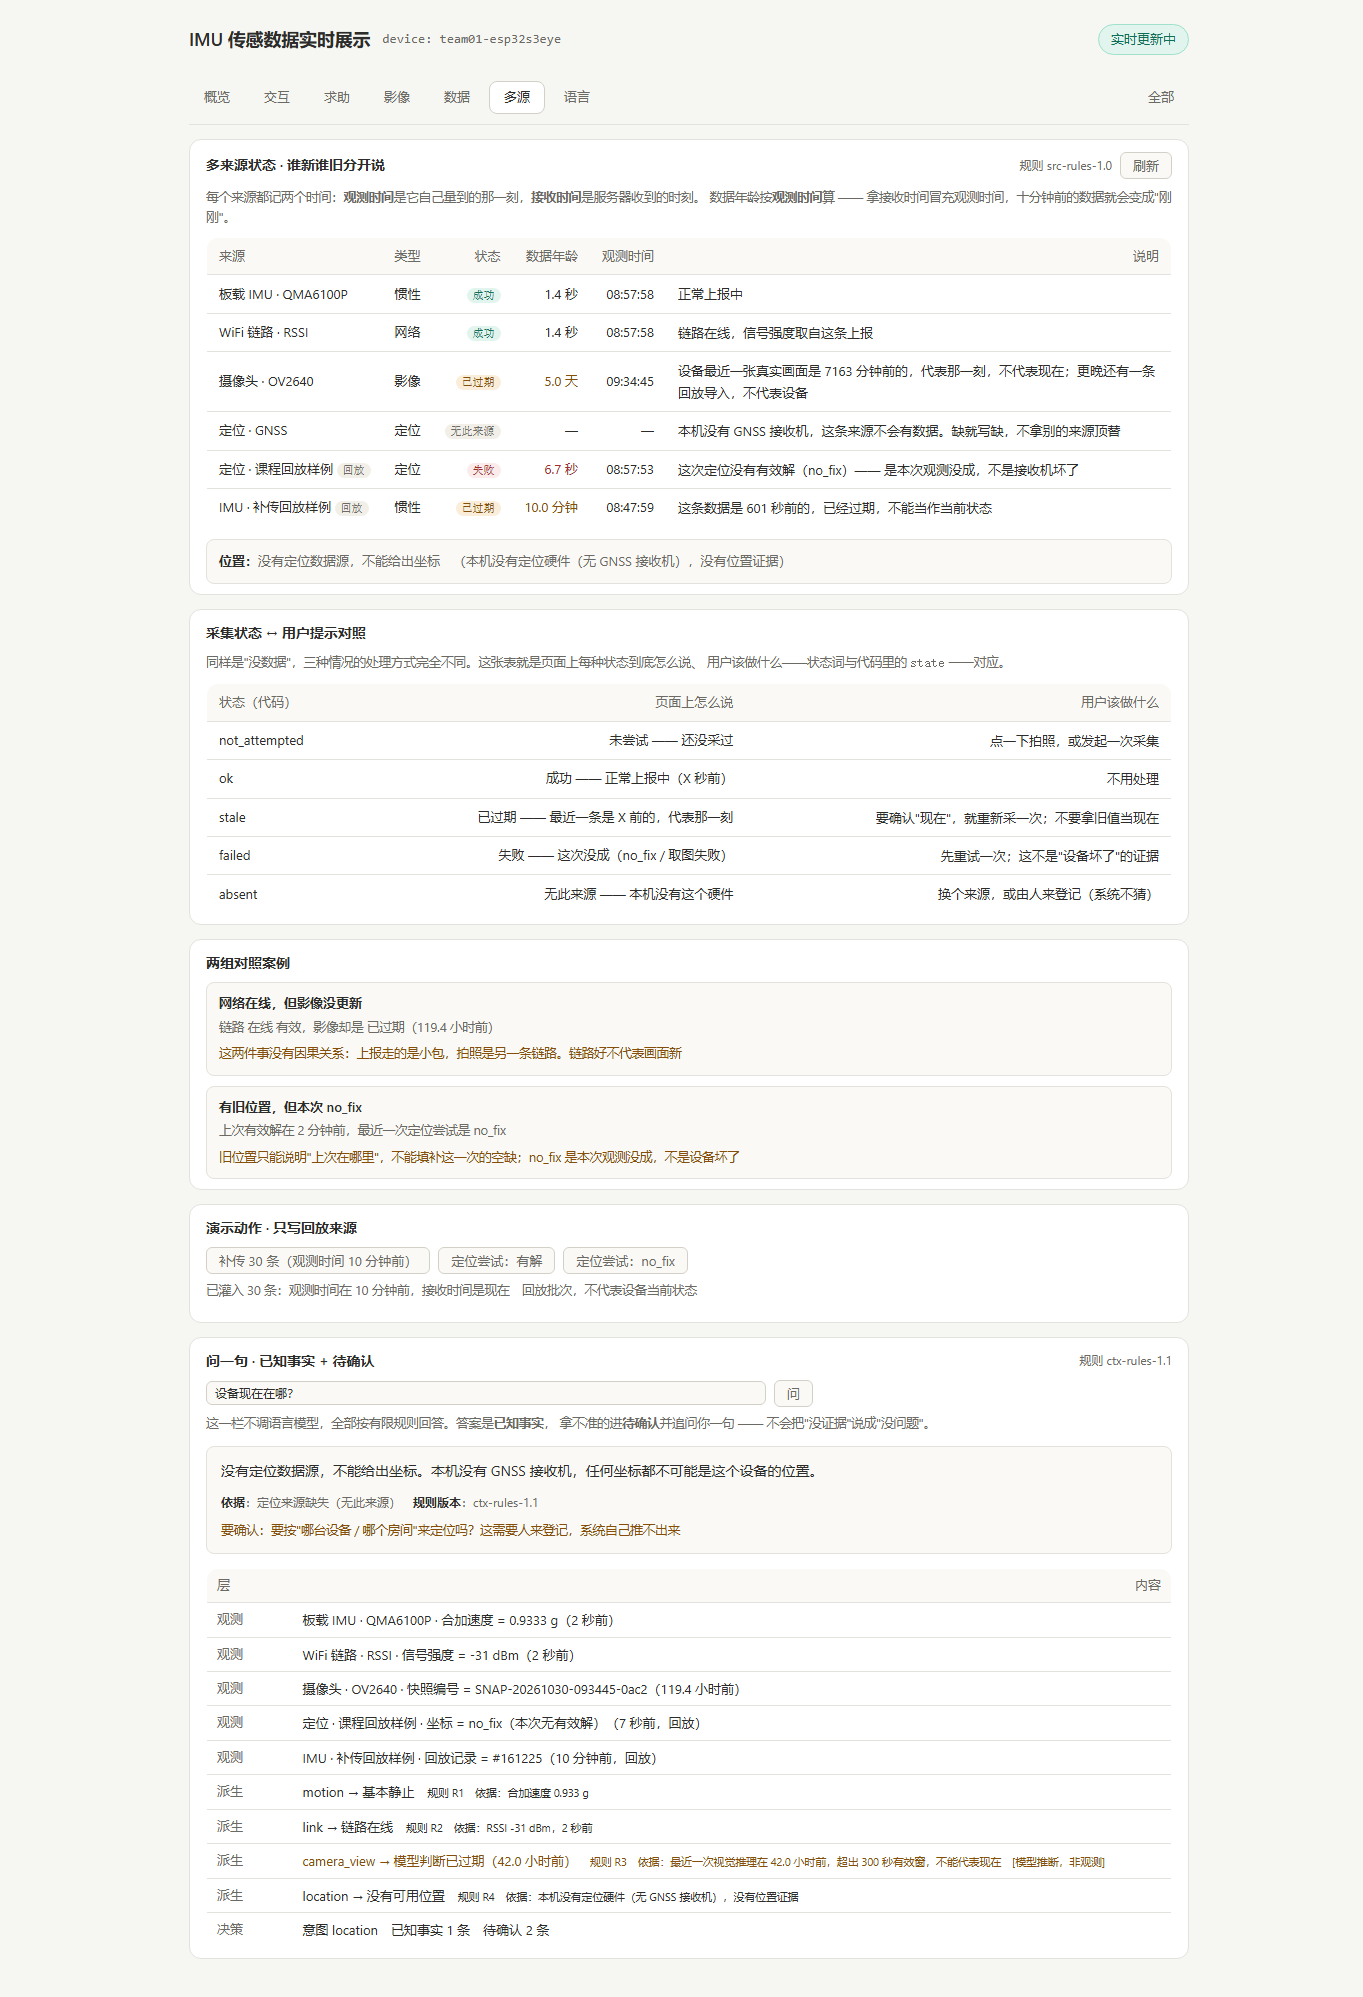
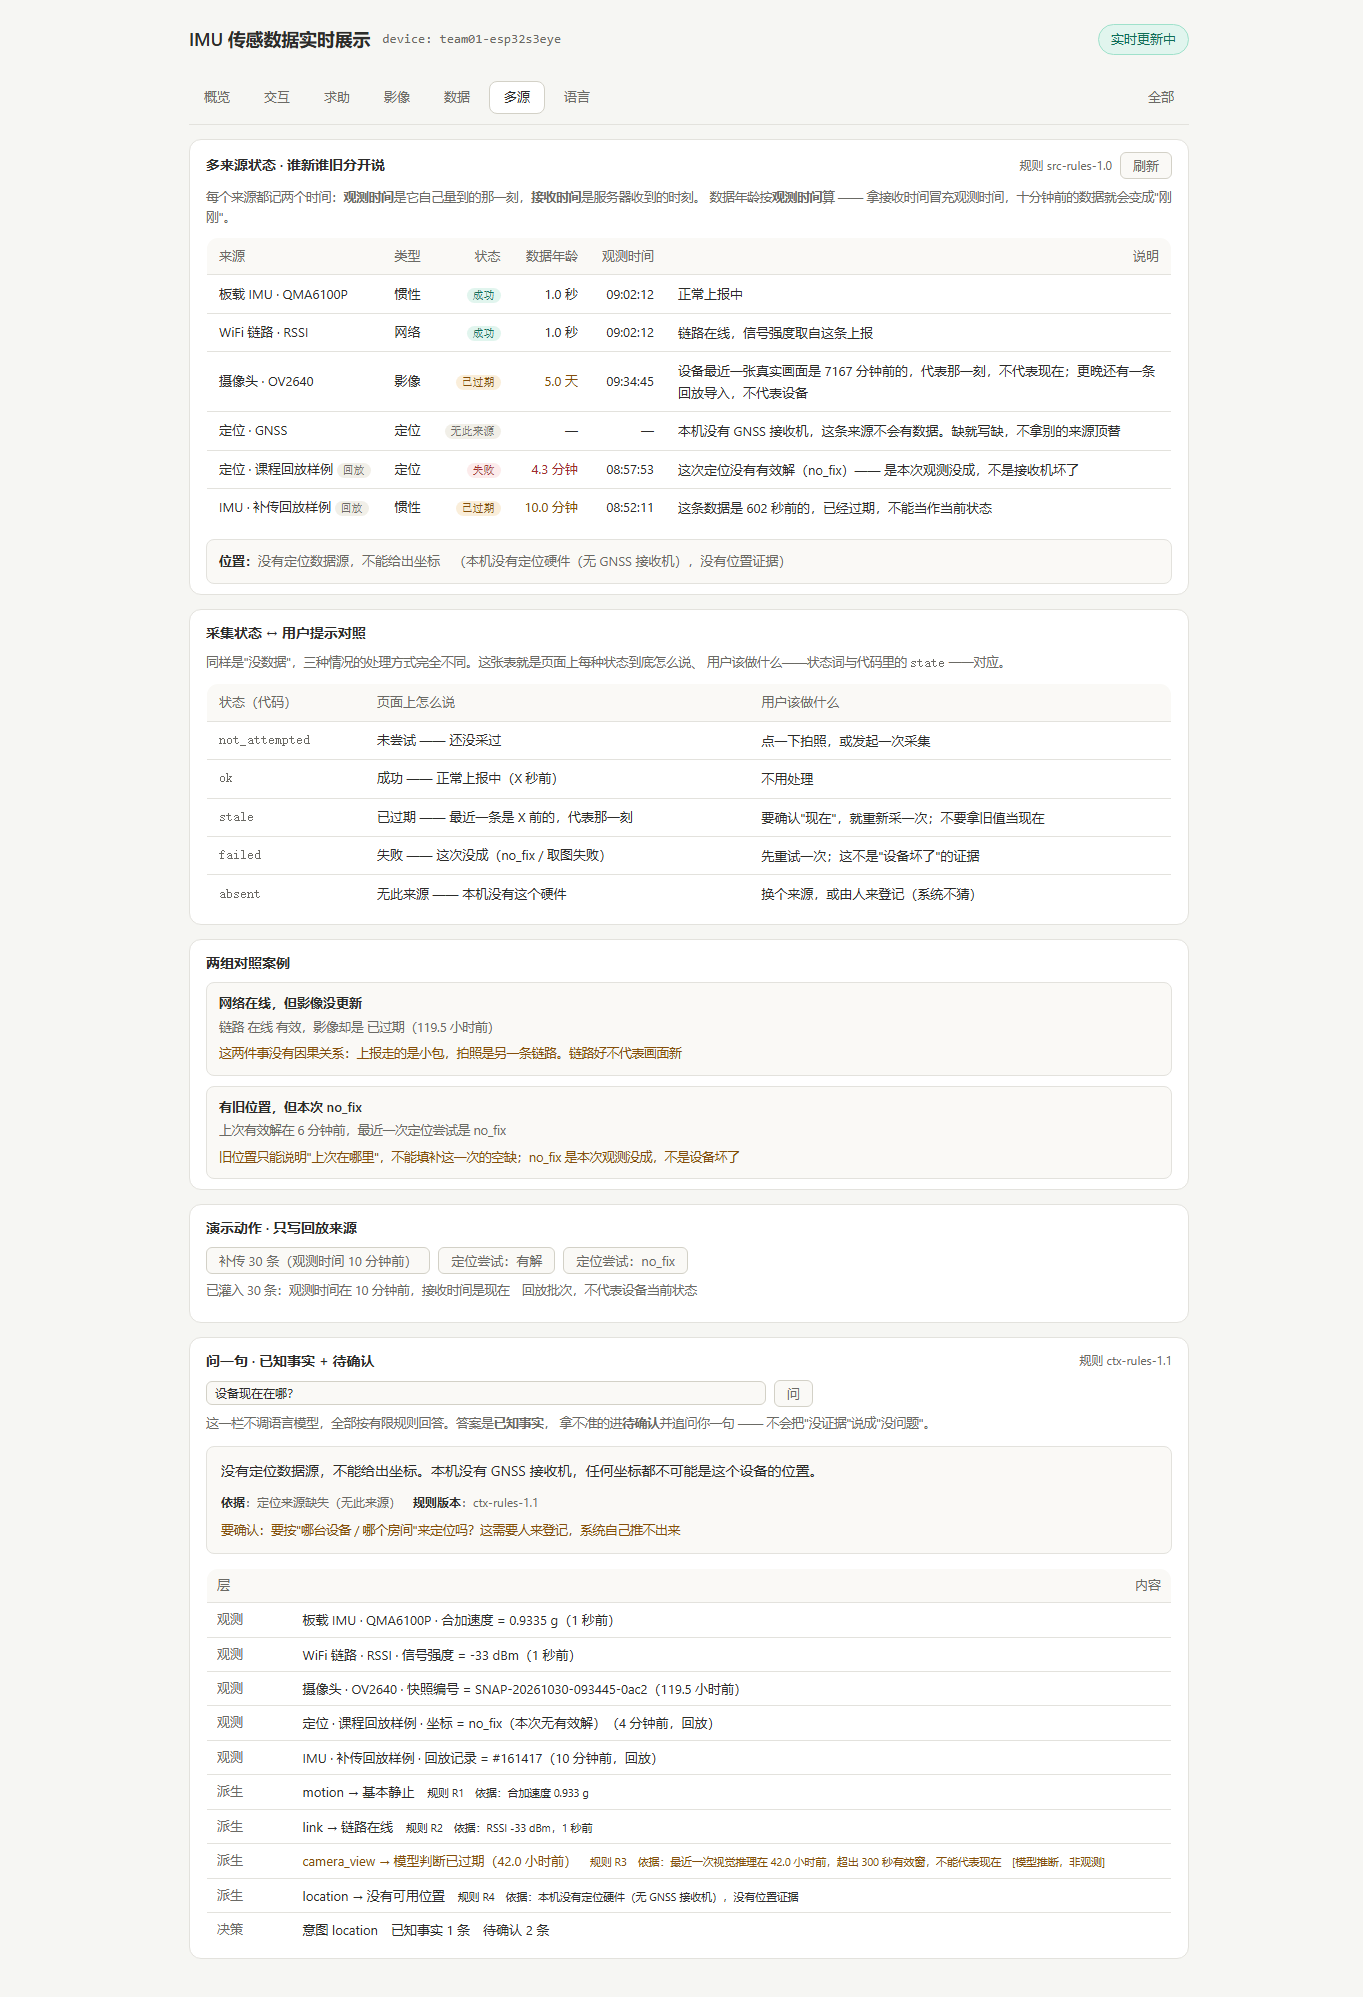
多源页：对照表三列左对齐
表格默认数字右对齐，这张表三列都是文字，右对齐把整段说明挤到最右边、
第一列的状态名反而贴着中线。加 .stattable 类改成左对齐，代码列用等宽字体。

同时更新截图（现在能看到五个状态与三层表的实际渲染）。

diff --git a/week1/web/index.html b/week1/web/index.html
@@ -534,6 +534,9 @@
   #panel-multi table td:last-child { white-space: normal; line-height: 1.65; }
   /* 提问框要能看见整句问题，不用 170px 那个窄尺寸 */
   #panel-multi .seg input#ctxQ { width: min(560px, 62vw); }
+  /* 对照表三列都是文字，右对齐会把整段说明挤到最右边 */
+  #panel-multi table.stattable td, #panel-multi table.stattable th { text-align: left; }
+  #panel-multi table.stattable td:first-child { font-family: var(--mono, monospace); color: var(--muted); }
 
   /* 第8周：视觉推理面板 */
   .visbox { margin-top: 18px; padding-top: 14px; border-top: 1px solid var(--line); }
@@ -977,7 +980,7 @@
         用户该做什么——状态词与代码里的 <code>state</code> 一一对应。
       </p>
       <div class="tablewrap">
-        <table>
+        <table class="stattable">
           <thead><tr><th>状态（代码）</th><th>页面上怎么说</th><th>用户该做什么</th></tr></thead>
           <tbody>
             <tr><td>not_attempted</td><td>未尝试 —— 还没采过</td><td>点一下拍照，或发起一次采集</td></tr>
